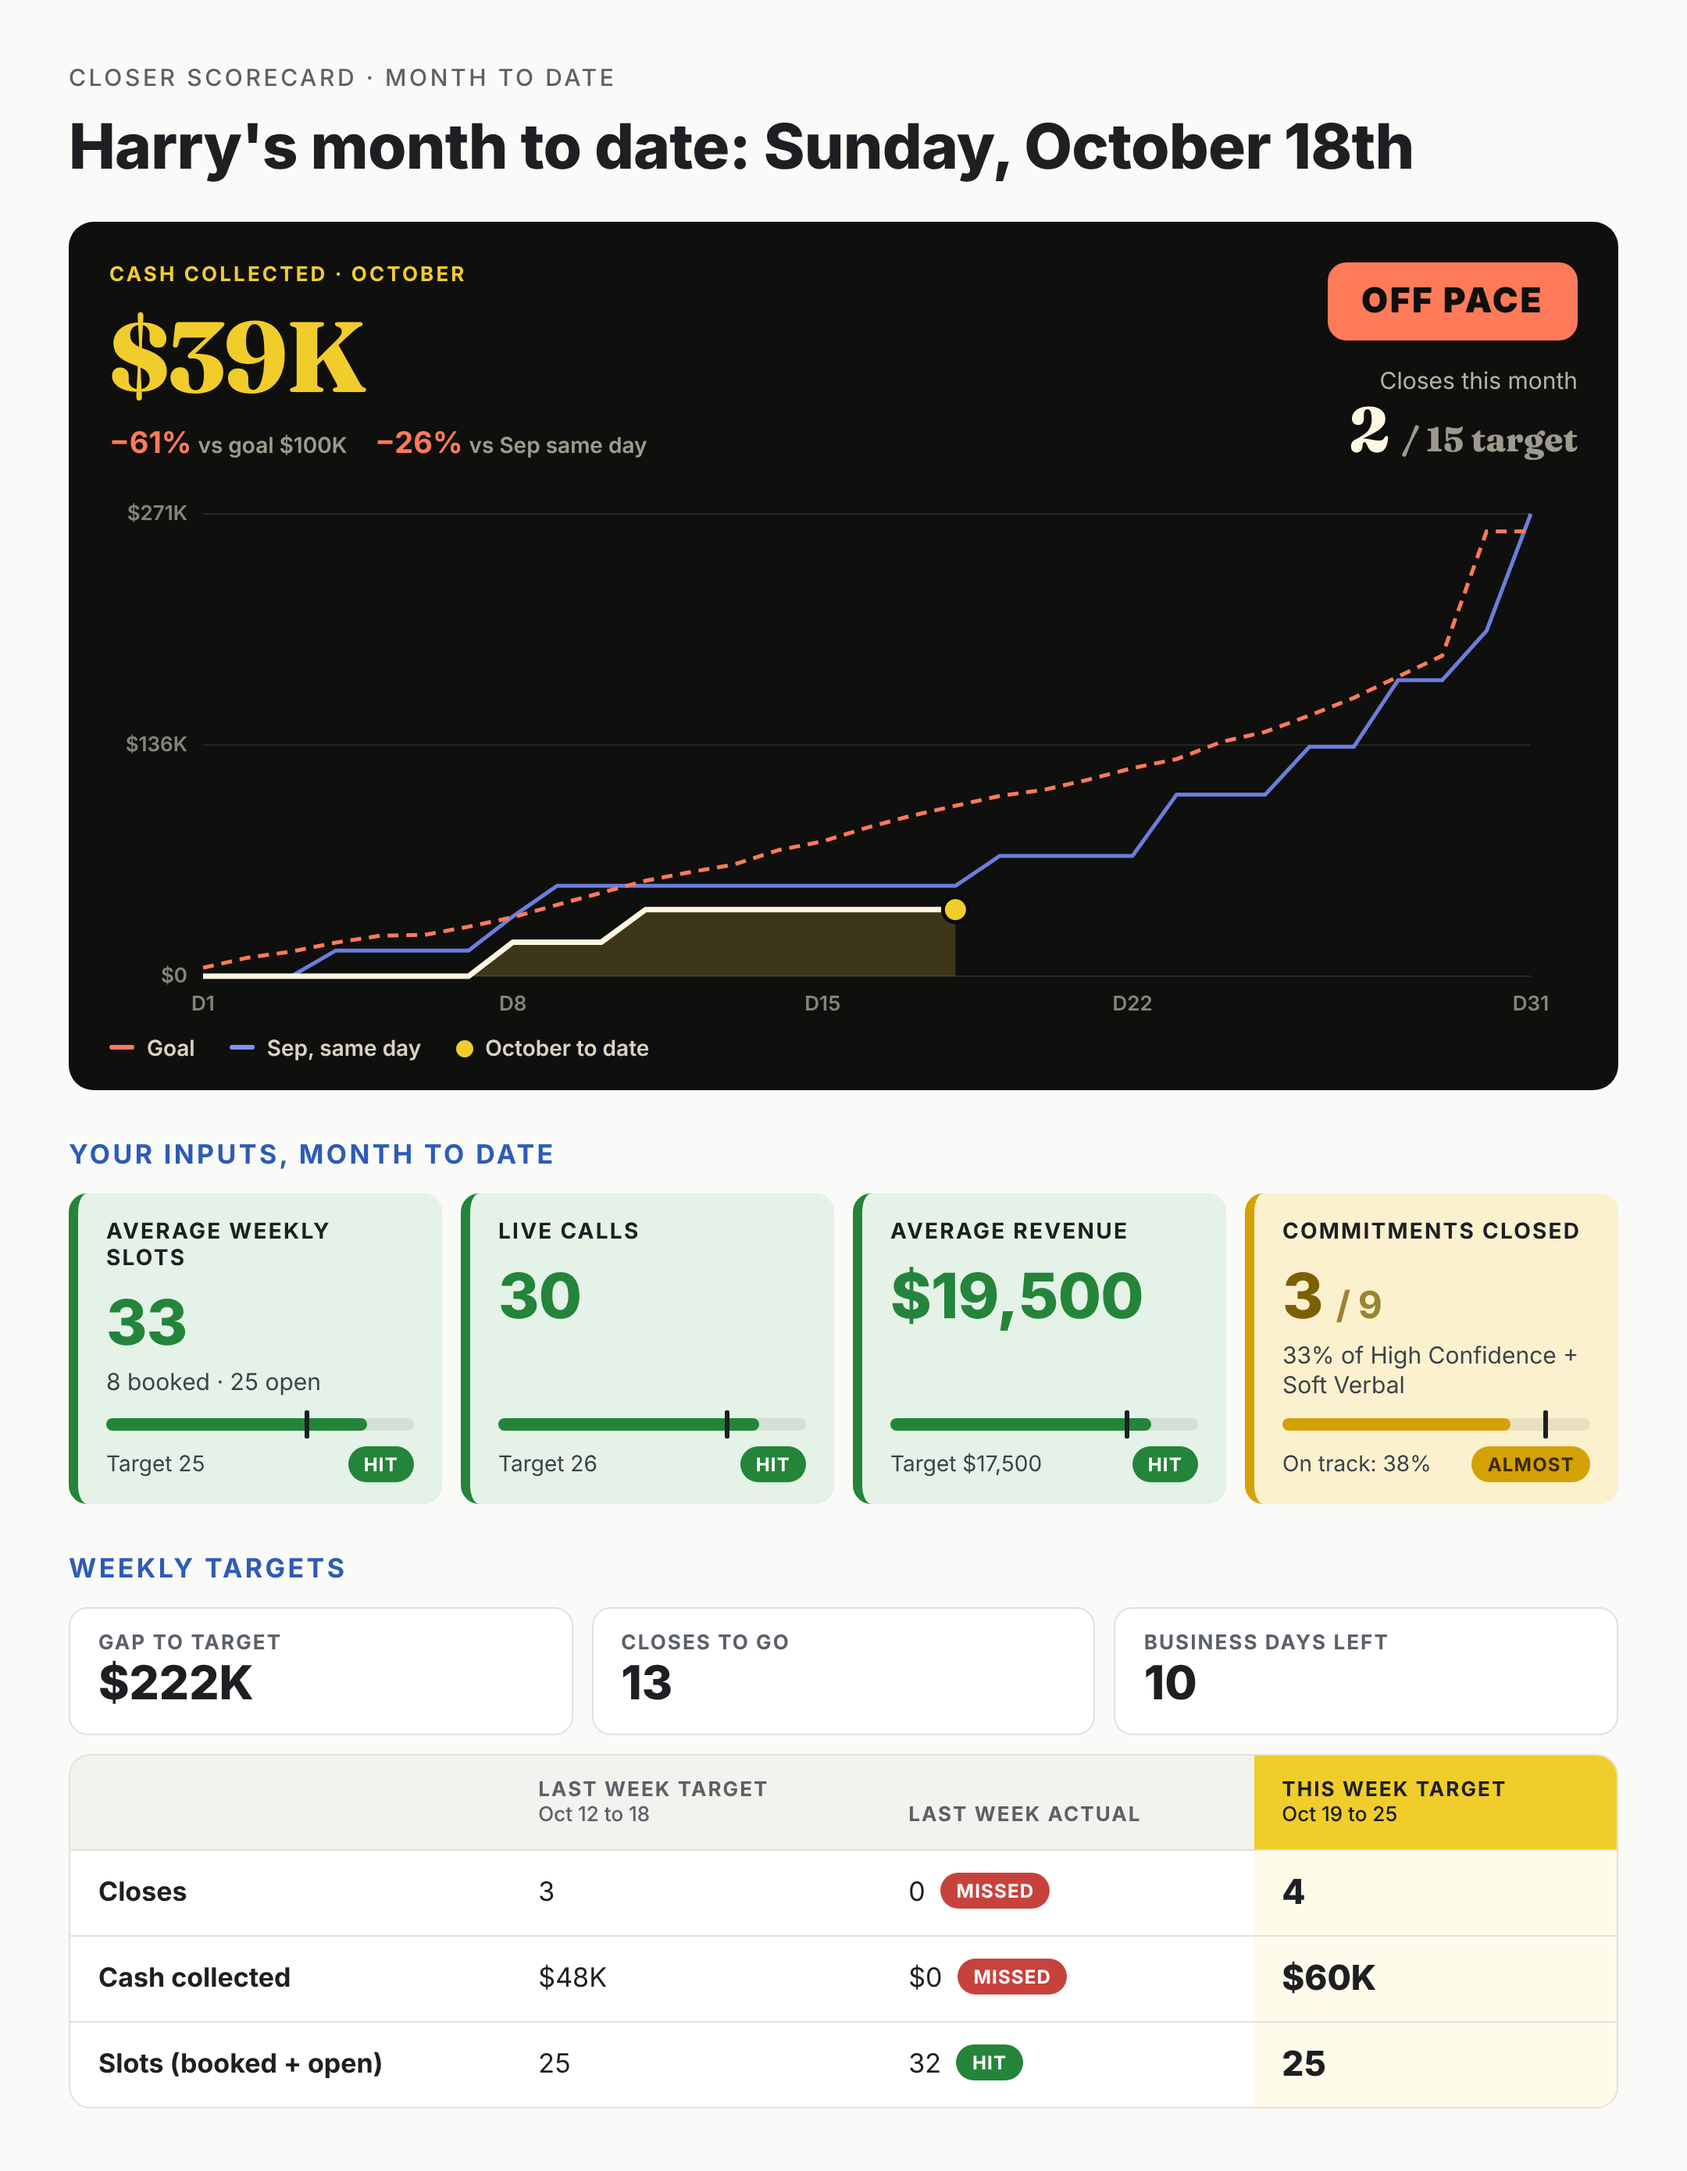
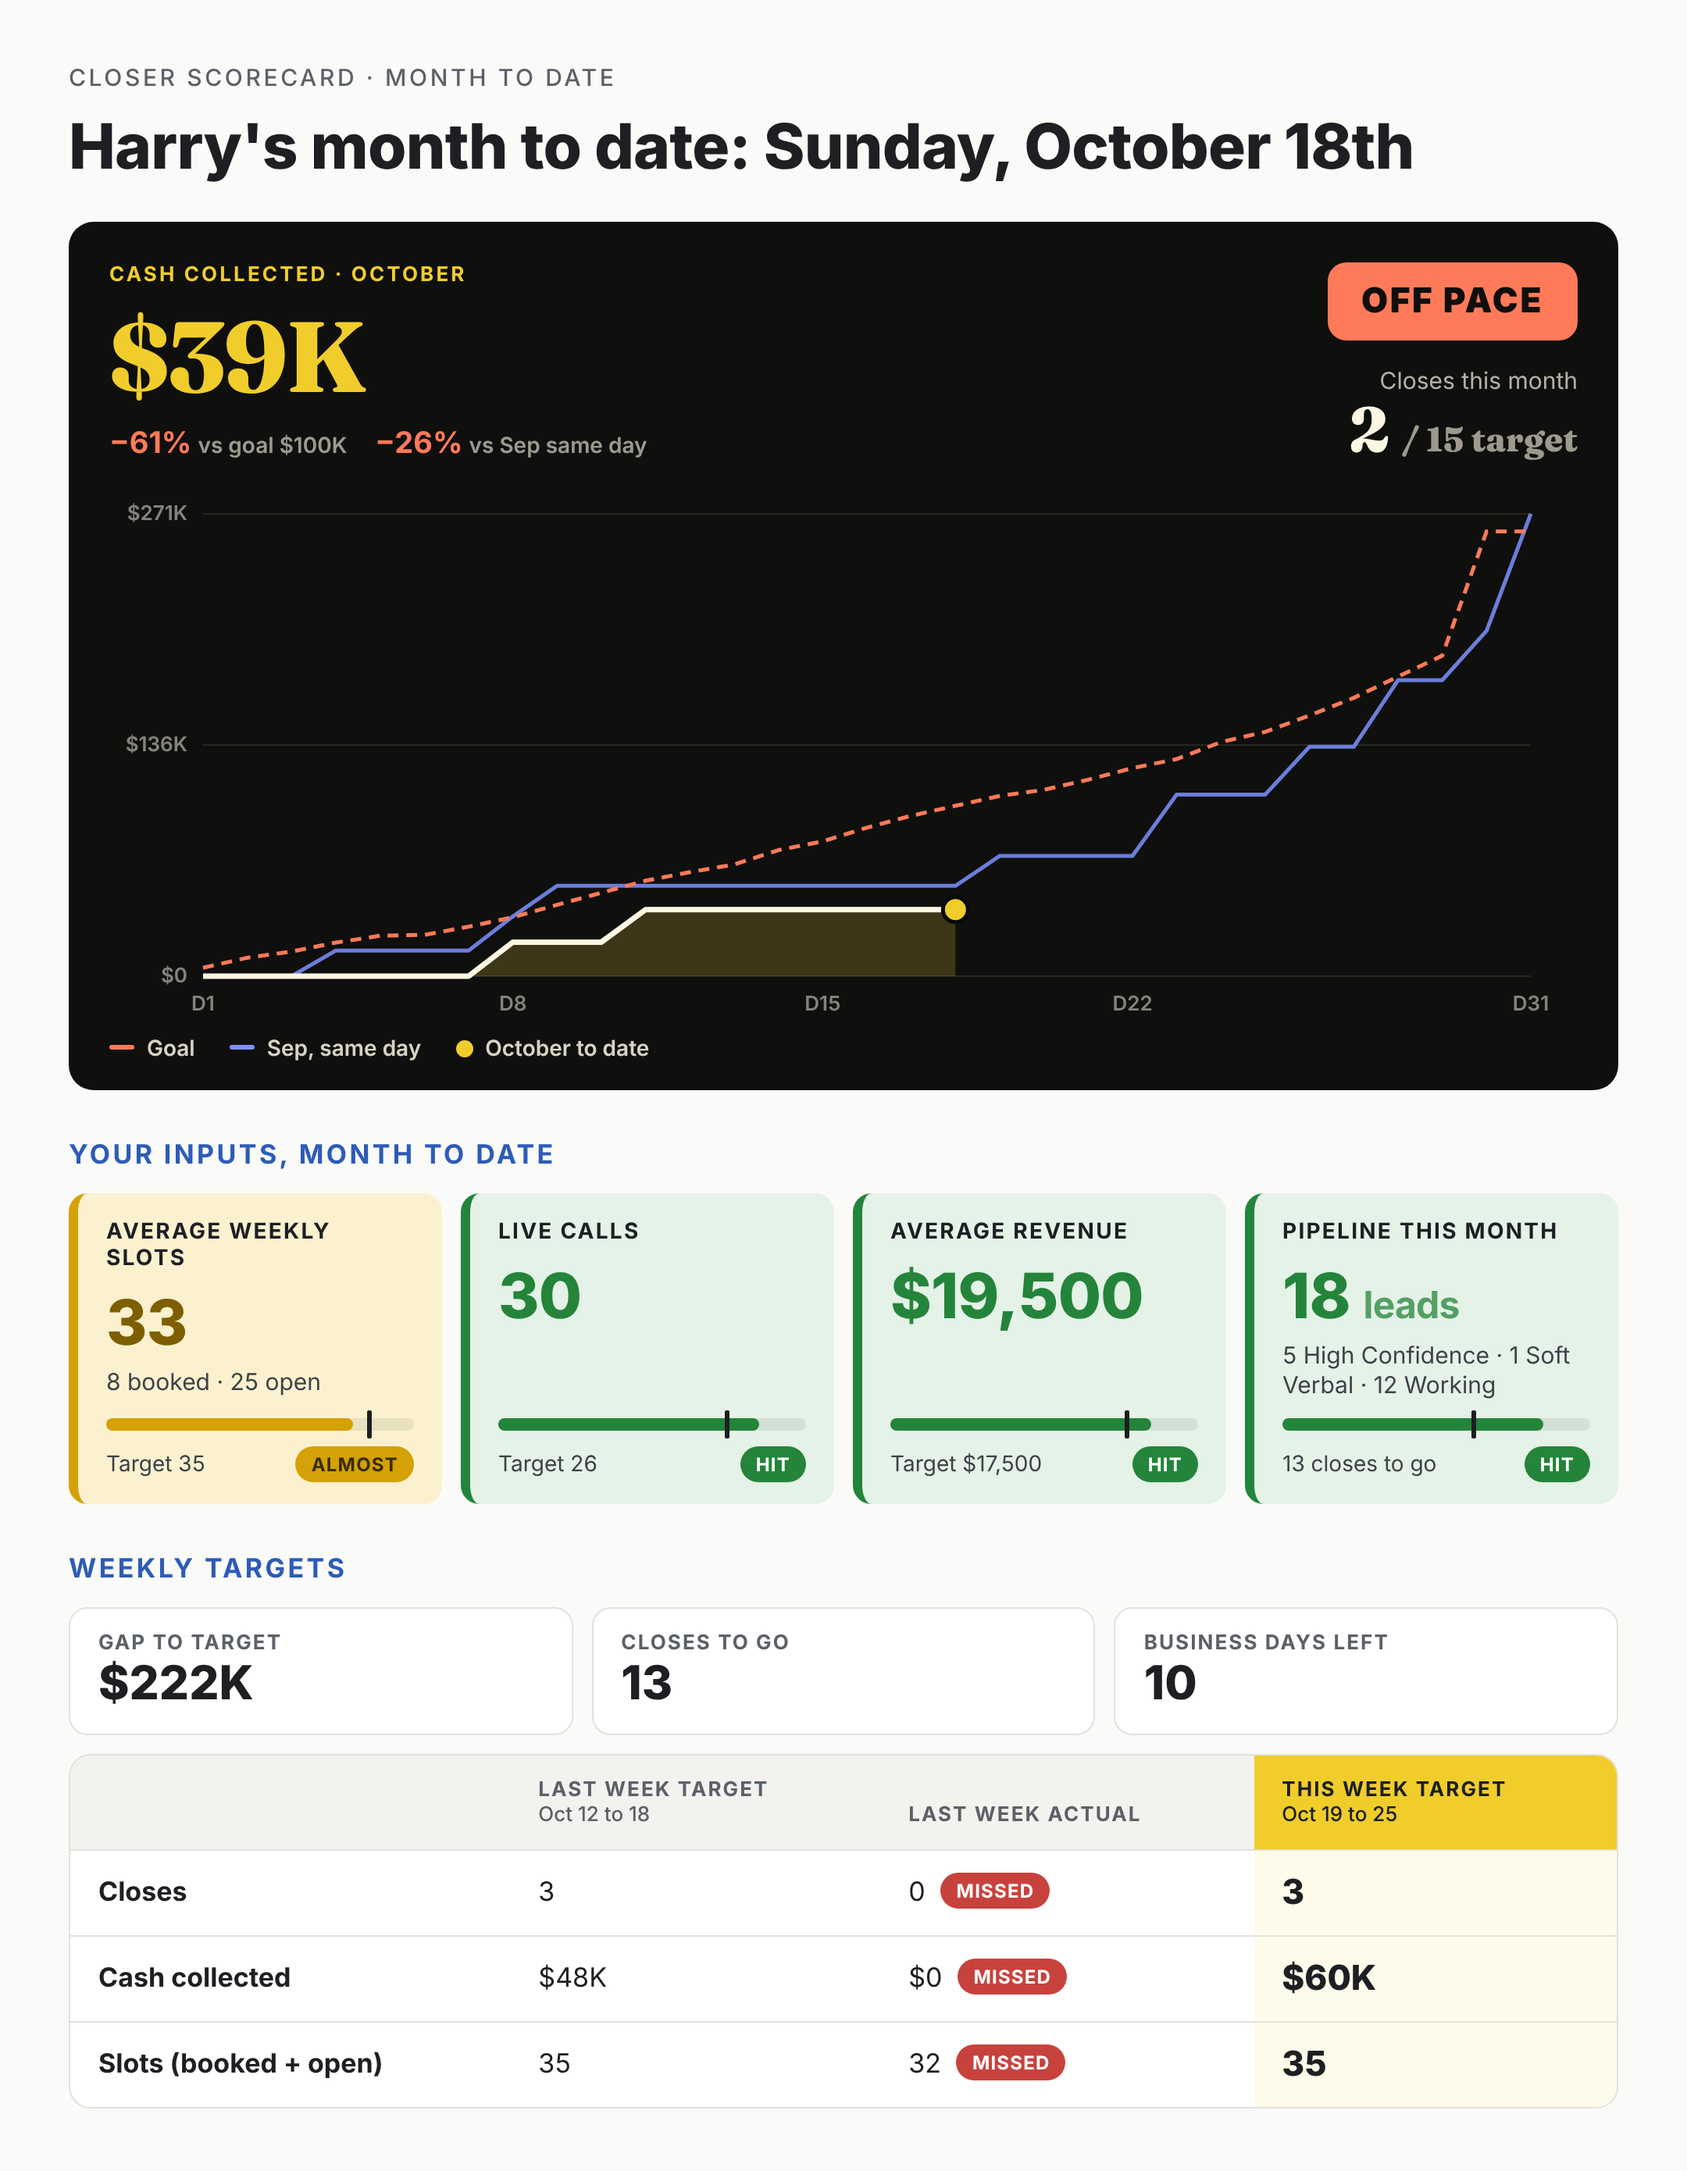
Sample v2: slots target 35, everything anchored on the month's closes target
Weekly closes targets now work off closes to go (target - closes so far) on
the goal curve, not cash / 17.5K. The fourth tile shows this month's pipeline
(High Confidence, Soft Verbal, Working, total) against the closes still to go.

Claude-Session: https://claude.ai/code/session_01QJR8Xkdb1fVxZpuW4LXwCd

Changed region(s): [[0.7134, 0.5568, 0.9616, 0.6806], [0.031, 0.5568, 0.2481, 0.6806], [0.5583, 0.9281, 0.6514, 0.959]]

diff --git a/out/v2-monday-Harry.html b/out/v2-monday-Harry.html
@@ -82,15 +82,15 @@ td .chip{margin-left:10px;vertical-align:2px}
 <div class="pt-legend"><span><i style="background:#ff7a58"></i>Goal</span><span><i style="background:#7d92ff"></i>Sep, same day</span><span><i class="dot"></i>October to date</span></div>
 </div>
 <h2>YOUR INPUTS, MONTH TO DATE</h2>
-<div class="grid"><div class="tile hit"><div class="l">Average weekly slots</div><div class="v">33</div><div class="s">8 booked · 25 open</div>
-<div class="foot"><div class="bar"><i style="width:84.99999999999999%"></i><b style="left:64.39393939393939%"></b></div><div class="row"><span>Target 25</span><span class="chip">HIT</span></div></div></div><div class="tile hit"><div class="l">Live calls</div><div class="v">30</div>
+<div class="grid"><div class="tile almost"><div class="l">Average weekly slots</div><div class="v">33</div><div class="s">8 booked · 25 open</div>
+<div class="foot"><div class="bar"><i style="width:80.14285714285714%"></i><b style="left:85%"></b></div><div class="row"><span>Target 35</span><span class="chip">ALMOST</span></div></div></div><div class="tile hit"><div class="l">Live calls</div><div class="v">30</div>
 <div class="foot"><div class="bar"><i style="width:85%"></i><b style="left:73.66666666666666%"></b></div><div class="row"><span>Target 26</span><span class="chip">HIT</span></div></div></div><div class="tile hit"><div class="l">Average revenue</div><div class="v">$19,500</div>
-<div class="foot"><div class="bar"><i style="width:85.00000000000001%"></i><b style="left:76.28205128205128%"></b></div><div class="row"><span>Target $17,500</span><span class="chip">HIT</span></div></div></div><div class="tile almost"><div class="l">Commitments closed</div><div class="v">3 <span>/ 9</span></div><div class="s">33% of High Confidence + Soft Verbal</div>
-<div class="foot"><div class="bar"><i style="width:73.94069086701984%"></i><b style="left:84.99999999999999%"></b></div><div class="row"><span>On track: 38%</span><span class="chip">ALMOST</span></div></div></div></div>
+<div class="foot"><div class="bar"><i style="width:85.00000000000001%"></i><b style="left:76.28205128205128%"></b></div><div class="row"><span>Target $17,500</span><span class="chip">HIT</span></div></div></div><div class="tile hit"><div class="l">Pipeline this month</div><div class="v">18 <span>leads</span></div><div class="s">5 High Confidence · 1 Soft Verbal · 12 Working</div>
+<div class="foot"><div class="bar"><i style="width:85%"></i><b style="left:61.38888888888889%"></b></div><div class="row"><span>13 closes to go</span><span class="chip">HIT</span></div></div></div></div>
 <h2>WEEKLY TARGETS</h2>
 <div class="gap"><div><small>Gap to target</small><b>$222K</b></div><div><small>Closes to go</small><b>13</b></div><div><small>Business days left</small><b>10</b></div></div>
 <table><thead><tr><th></th><th>Last week target<small>Oct 12 to 18</small></th><th>Last week actual</th><th class="next">This week target<small>Oct 19 to 25</small></th></tr></thead><tbody>
-<tr><td>Closes</td><td>3</td><td>0<span class="chip missed">MISSED</span></td><td class="next">4</td></tr>
+<tr><td>Closes</td><td>3</td><td>0<span class="chip missed">MISSED</span></td><td class="next">3</td></tr>
 <tr><td>Cash collected</td><td>$48K</td><td>$0<span class="chip missed">MISSED</span></td><td class="next">$60K</td></tr>
-<tr><td>Slots (booked + open)</td><td>25</td><td>32<span class="chip hit">HIT</span></td><td class="next">25</td></tr>
+<tr><td>Slots (booked + open)</td><td>35</td><td>32<span class="chip missed">MISSED</span></td><td class="next">35</td></tr>
 </tbody></table></div></body></html>

diff --git a/out/v2-monday-Owen.html b/out/v2-monday-Owen.html
@@ -83,14 +83,14 @@ td .chip{margin-left:10px;vertical-align:2px}
 </div>
 <h2>YOUR INPUTS, MONTH TO DATE</h2>
 <div class="grid"><div class="tile hit"><div class="l">Average weekly slots</div><div class="v">50</div><div class="s">10 booked · 40 open</div>
-<div class="foot"><div class="bar"><i style="width:85%"></i><b style="left:42.5%"></b></div><div class="row"><span>Target 25</span><span class="chip">HIT</span></div></div></div><div class="tile hit"><div class="l">Live calls</div><div class="v">26</div>
+<div class="foot"><div class="bar"><i style="width:85%"></i><b style="left:59.5%"></b></div><div class="row"><span>Target 35</span><span class="chip">HIT</span></div></div></div><div class="tile hit"><div class="l">Live calls</div><div class="v">26</div>
 <div class="foot"><div class="bar"><i style="width:85%"></i><b style="left:85%"></b></div><div class="row"><span>Target 26</span><span class="chip">HIT</span></div></div></div><div class="tile hit"><div class="l">Average revenue</div><div class="v">$19,400</div>
-<div class="foot"><div class="bar"><i style="width:85%"></i><b style="left:76.67525773195875%"></b></div><div class="row"><span>Target $17,500</span><span class="chip">HIT</span></div></div></div><div class="tile almost"><div class="l">Commitments closed</div><div class="v">5 <span>/ 15</span></div><div class="s">33% of High Confidence + Soft Verbal</div>
-<div class="foot"><div class="bar"><i style="width:73.94069086701984%"></i><b style="left:85%"></b></div><div class="row"><span>On track: 38%</span><span class="chip">ALMOST</span></div></div></div></div>
+<div class="foot"><div class="bar"><i style="width:85%"></i><b style="left:76.67525773195875%"></b></div><div class="row"><span>Target $17,500</span><span class="chip">HIT</span></div></div></div><div class="tile missed"><div class="l">Pipeline this month</div><div class="v">13 <span>leads</span></div><div class="s">3 High Confidence · 7 Soft Verbal · 3 Working</div>
+<div class="foot"><div class="bar"><i style="width:58.157894736842096%"></i><b style="left:84.99999999999999%"></b></div><div class="row"><span>19 closes to go</span><span class="chip">MISSED</span></div></div></div></div>
 <h2>WEEKLY TARGETS</h2>
 <div class="gap"><div><small>Gap to target</small><b>$320K</b></div><div><small>Closes to go</small><b>19</b></div><div><small>Business days left</small><b>10</b></div></div>
 <table><thead><tr><th></th><th>Last week target<small>Oct 12 to 18</small></th><th>Last week actual</th><th class="next">This week target<small>Oct 19 to 25</small></th></tr></thead><tbody>
-<tr><td>Closes</td><td>5</td><td>1<span class="chip missed">MISSED</span></td><td class="next">5</td></tr>
+<tr><td>Closes</td><td>4</td><td>1<span class="chip missed">MISSED</span></td><td class="next">5</td></tr>
 <tr><td>Cash collected</td><td>$73K</td><td>$20K<span class="chip missed">MISSED</span></td><td class="next">$86K</td></tr>
-<tr><td>Slots (booked + open)</td><td>25</td><td>49<span class="chip hit">HIT</span></td><td class="next">25</td></tr>
+<tr><td>Slots (booked + open)</td><td>35</td><td>49<span class="chip hit">HIT</span></td><td class="next">35</td></tr>
 </tbody></table></div></body></html>
